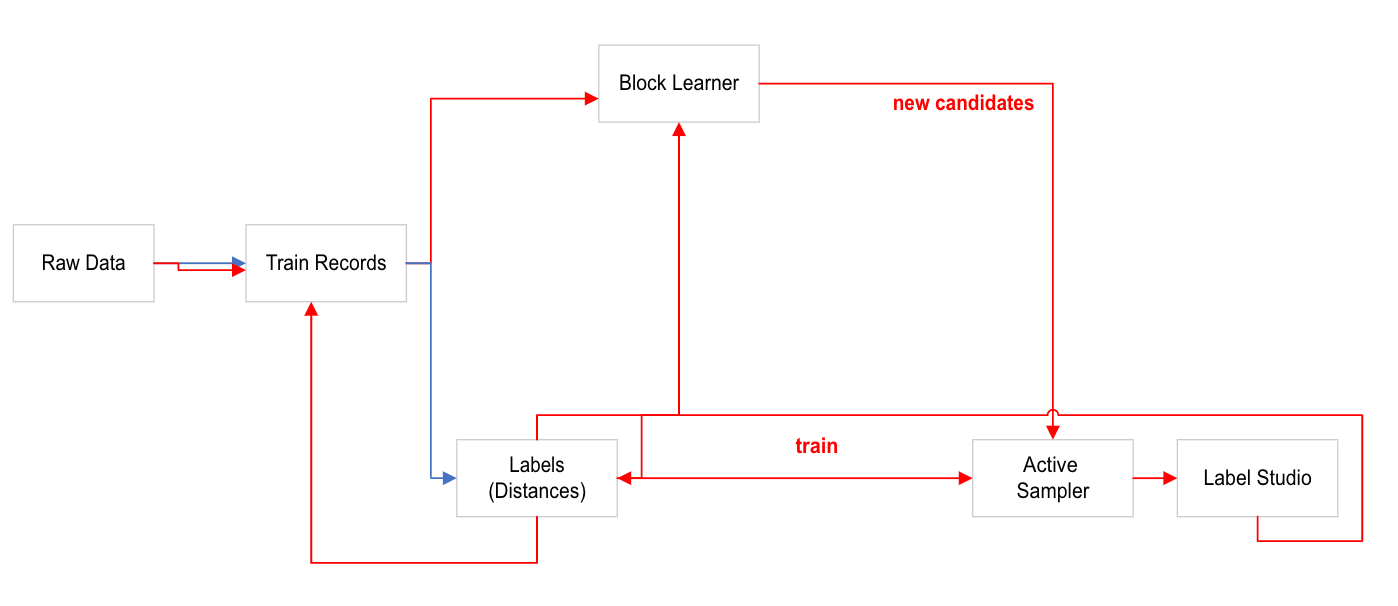
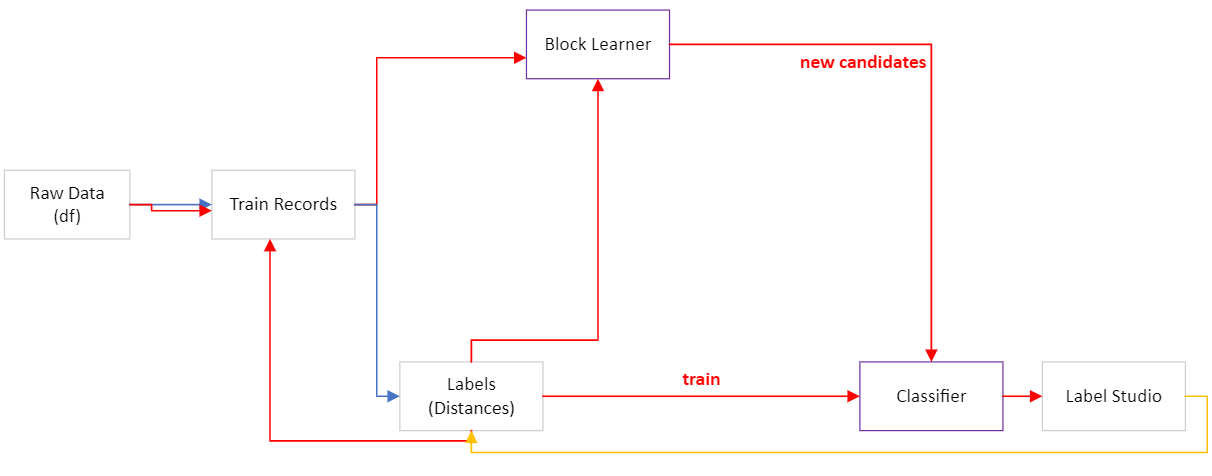
update active learning summary page

diff --git a/references/diagram/modelDiagram.py b/references/diagram/modelDiagram.py
@@ -7,7 +7,7 @@ from diagrams.generic.storage import Storage
 
 
 with Diagram("Dedupe", show=False):
-    rawdata = Storage("Raw Data")
+    rawdata = Storage("Raw Data (local)")
     preprocess = Python("PreProcess")
     
     rawdata >> preprocess 
@@ -15,7 +15,6 @@ with Diagram("Dedupe", show=False):
     with Cluster("Active Learning Loop"):
         sql = SQL("Postgres db")
         model = Custom("Model", "img/modAl.png") 
-        preprocess >> model 
         preprocess >> sql 
 
         fastapi = Custom("FastApi","img/fastapi.png")
@@ -25,6 +24,6 @@ with Diagram("Dedupe", show=False):
         fastapi >> Edge(color="darkgreen") <<  labelstudio
     
     networkX = Custom("NetworkX", "img/networkX.png")
-    fastapi >> networkX >> Storage("Predictions")
+    fastapi >> networkX >> Storage("Predictions (local)")
     
 # %%

diff --git a/docs/source/userguide/active_learn_loop.md b/docs/source/userguide/active_learn_loop.md
@@ -1,9 +1,54 @@
 # Active Learning Loop
 
-As uncertainty samples are labeled, label-studio sends labels to fastAPI. When there are fewer than 5 tasks left on label-studio, fastAPI generates new samples.
+In the diagram below, the arrows' colors represent the stage of the loop:
+- blue: initialization
+- red: active learning
+- yellow represents the start of a new active learning loop
 
-To generate new samples, we first append the newly labeled pairs to schema.labels. Next we delete all records in schema.train that have not been labeled. A new sample of size settings.other.n is pulled and appended to schema.train.
+The image below shows initialization steps in blue and the active learning loop 
+in red. 
+![../active-learn-diag.png](../active-learn-diag.png)
 
-Next, we re-evaluate blocks to obtain best block conjunctions. The metrics are now computed on this new sample and the updated labels are used to evaluate positive and negative coverage.
+#### Initialization and First Pass
 
-Again, we apply the block conjunctions to get comparison pairs then re-train the active learner with newly labeled data. Finally, the active learner submits new uncertain samples to label-studio.
+The initialization steps represent the sampling and fake labelled data 
+construction discussed earlier. The train data and fake labelled data 
+are used as inputs in the block learner, which evaluates block conjunctions 
+based on reduction ratio, positive coverage, and negative coverage.
+
+The block learner applies the best conjunctions to generate comparison pairs. 
+
+The classifier is trained using the labelled data. The comparison pairs from 
+the block learner represents the test set and the classifier applies 
+uncertainty sampling on this test set to generate candidates for human 
+review.
+
+We conduct the human review in label-studio. When a condition is met (
+e.g. fewer than 5 tasks remaining in label-studio), fastAPI generates 
+new samples, signalling the end of an active learning loop and triggering 
+a new one (the yellow arrow).
+
+#### New Active Learning Loop
+
+At the start of a new active learning loop, two events occur:
+1. update `train` with new labels
+2. delete unlabelled records from `train` and pull a new sample from `df`
+
+And then we repeat: the train data and labelled data (which now 
+includes the original fake-construction of labelled data AND outputs from 
+label-studio) are used as inputs in the block learner. The best conjunctions 
+are evaluated once again, then applied to generate comparison pairs. The 
+classifier is updated with new labels and applies uncertainty sampling 
+on this fresh batch of comparison pairs. A human reviews on label-studio.
+
+This cycle repeats indefinitely and user can make predictions on the full data 
+at any point. (Note that up to this point, we have only been working with 
+repeated samples from the raw data. Labels persist through active learning 
+loops but train data is resampled at the start of each loop.)
+
+#### Predictions on Full Data
+
+To make comparisons on the full data, we apply the trained block learner 
+and classifier directly on the full data:
+
+![../predictions.png](../predictions.png)
